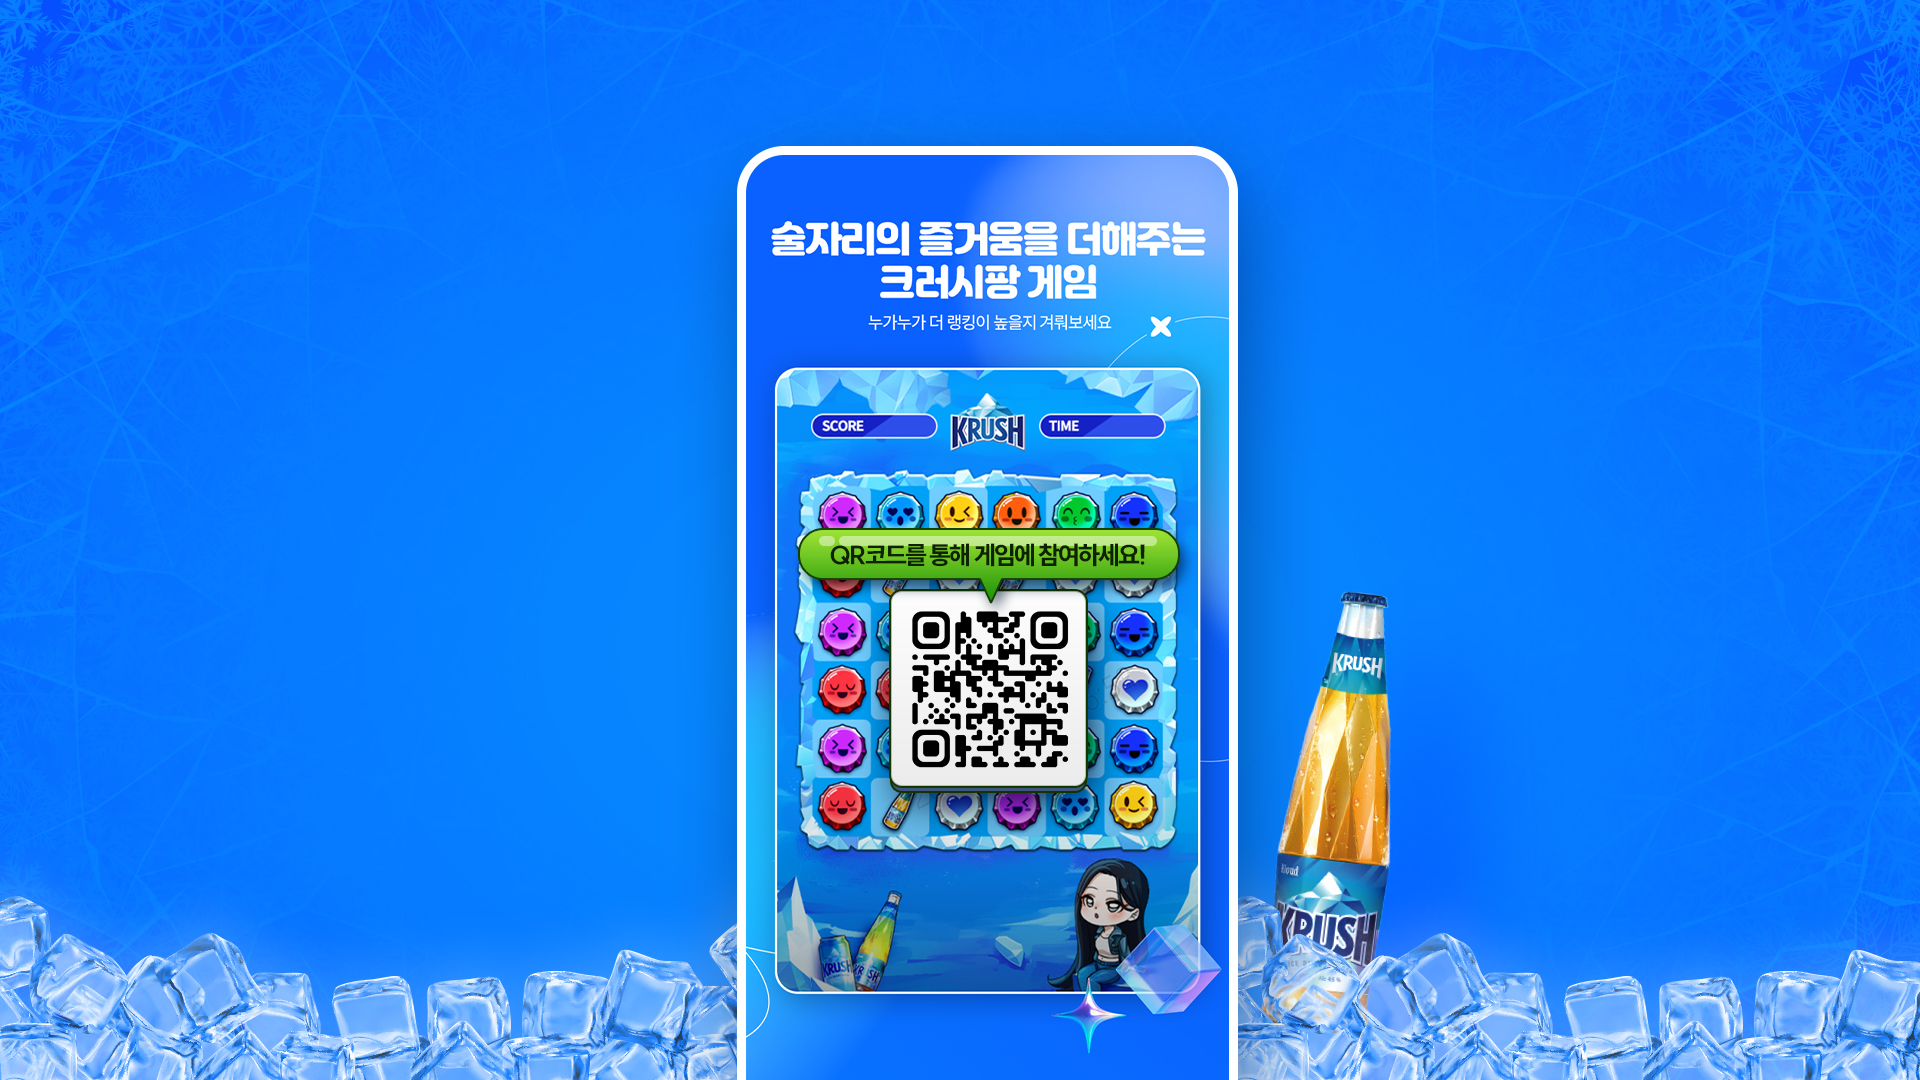
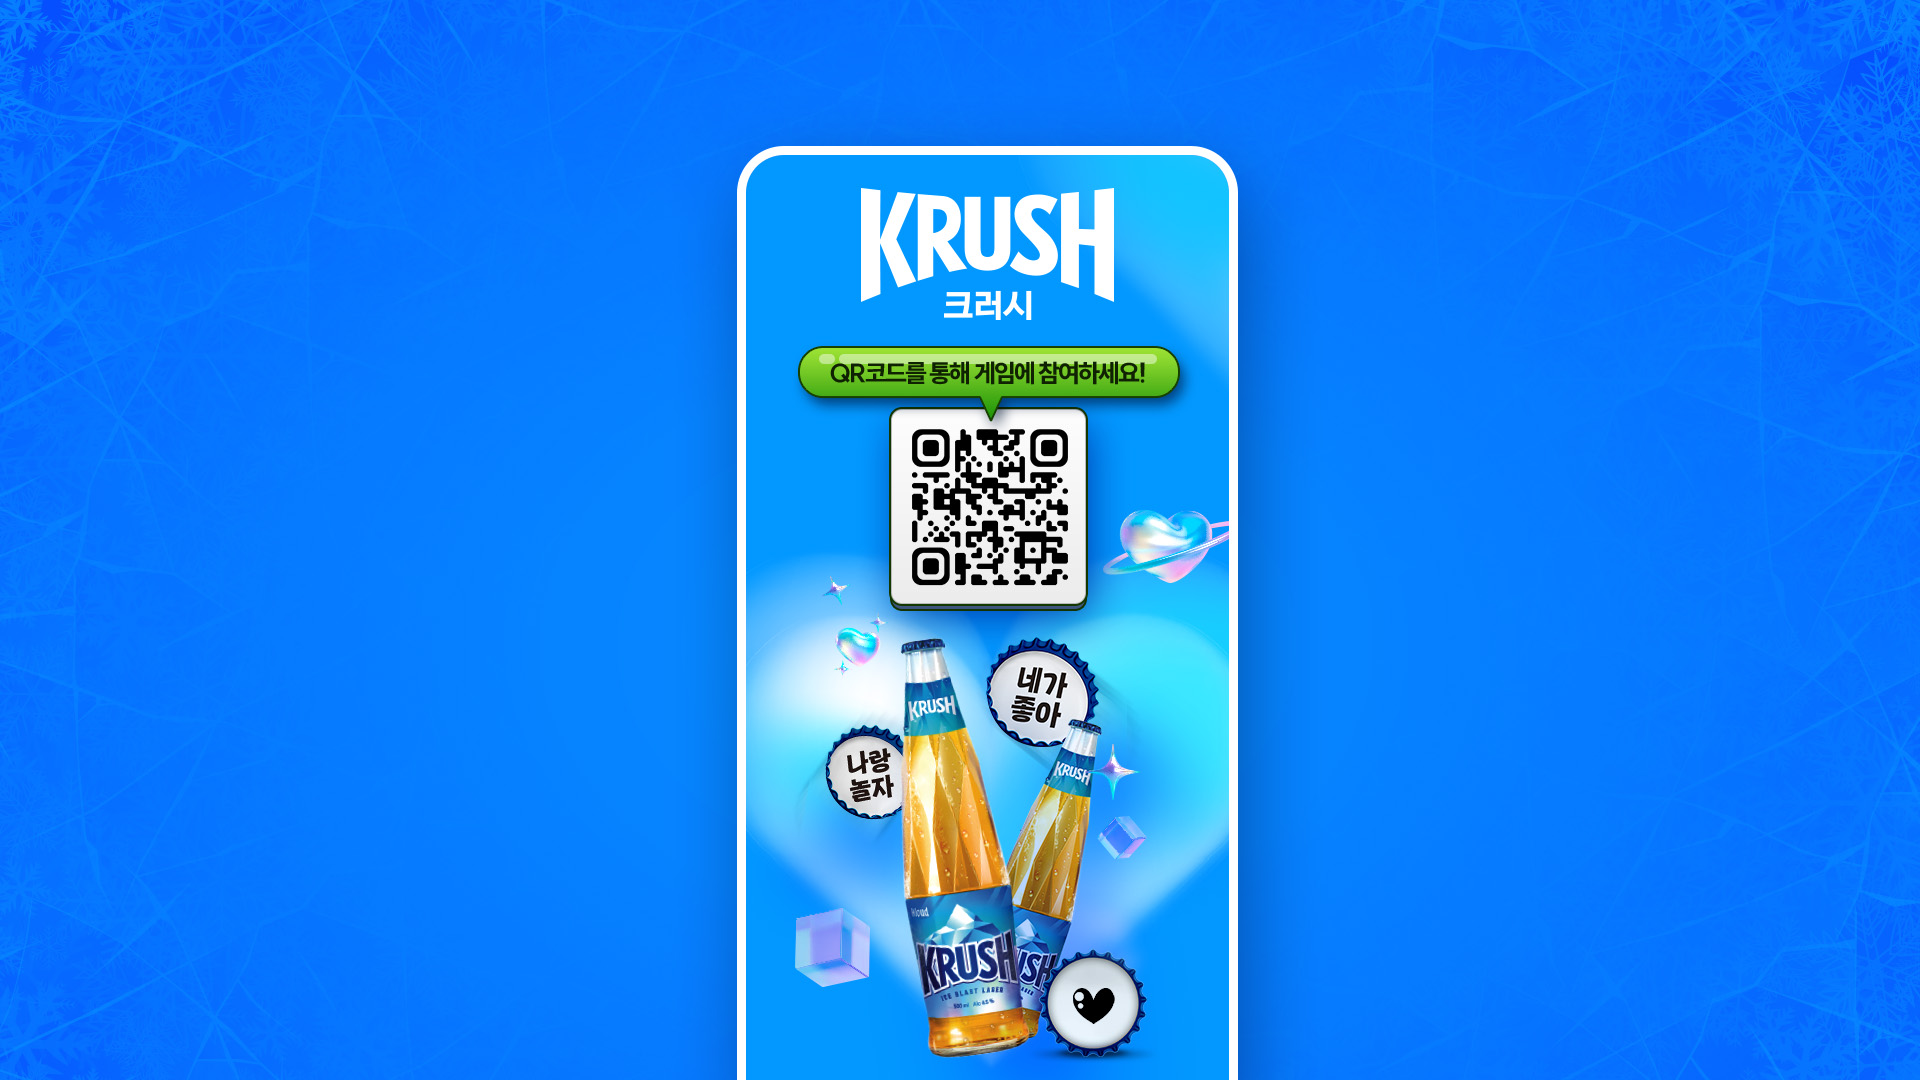
fix: 게임 링크 연결, 개인정보처리방침 삭제, PC 화면 이미지 변경

Changed region(s): [[0.0, 0.1222, 1.0, 1.0]]

diff --git a/css/landing.css b/css/landing.css
@@ -31,14 +31,14 @@ footer ul.text li:not(:first-of-type,:last-of-type)::after {content: ''; positio
 
 /* button */
 .btn {position: relative; display: inline-block; border-radius: 135px; box-shadow: 25px 25px 73px rgba(0, 32, 81, 0.8); z-index: 2;}
-.btn button {display: flex; align-items: center; justify-content: center; gap: 10px; height: 135px; border: 4px solid #003f8e; border-radius: 135px; font-size: 32px; color: #241916; font-weight: 900; letter-spacing: -0.25rem;}
+.btn button, .btn a {display: flex; align-items: center; justify-content: center; gap: 10px; height: 135px; border: 4px solid #003f8e; border-radius: 135px; font-size: 32px; color: #241916; font-weight: 900; letter-spacing: -0.25rem;}
 .btn::before {content: ''; position: absolute; width: 100%; height: 100%; border: 4px solid #003f8e; border-radius: 135px; background: linear-gradient(0deg, #195fd4, #ffffff); margin-top: 10px; z-index: -1;}
 .btn_type01 button {background: linear-gradient(0deg, #fdc327, #fefa05);}
 .btn_type01 button i {display: block; width: 40px; height: 40px; background: url('../img/icon_share.png') no-repeat center / contain;}
 .btn_type02 button {background: linear-gradient(0deg, #91d9ff, #ffffff);}
 .btn_type02 button i {display: block; width: 40px; height: 40px; background: url('../img/icon_reset.png') no-repeat center / contain;}
-.btn_type03 button {width: 100%; border-color: #5c0905; background: linear-gradient(0deg, #d33901, #f86c04); font-size: 42px; color: #ffffff; letter-spacing: 0;}
-.btn_type03 button i {display: block; width: 61px; height: 45px; background: url('../img/icon_game.png') no-repeat center / contain;}
+.btn_type03 a {display: flex; align-items: center; justify-content: center; width: 100%; border-color: #5c0905; background: linear-gradient(0deg, #d33901, #f86c04); font-size: 42px; color: #ffffff; letter-spacing: 0;}
+.btn_type03 a i {display: block; width: 61px; height: 45px; background: url('../img/icon_game.png') no-repeat center / contain;}
 .btn_type03::before {border-color: #5c0905; background: linear-gradient(0deg, #8e300b, #ffffff);}
 
 /* step */
@@ -205,12 +205,12 @@ footer ul.text li:not(:first-of-type,:last-of-type)::after {content: ''; positio
   .tit_area h2 {font-size: 30px; line-height: 1.4;}
   .tit_area h2.ls {letter-spacing: 0;}
   .tit_area p {font-size: 16px;}
-  .btn button {gap: 5px; height: 80px; border-width: 2px; font-size: 16px; letter-spacing: -0.15rem;}
+  .btn button, .btn a {gap: 5px; height: 80px; border-width: 2px; font-size: 16px; letter-spacing: -0.15rem;}
   .btn::before {margin-top: 5px; border-width: 2px;}
   .btn_type01 button i {width: 20px; height: 20px;}
   .btn_type02 button i {width: 20px; height: 20px;}
-  .btn_type03 button {font-size: 20px; letter-spacing: 0;}
-  .btn_type03 button i {width: 35px; height: 26px;}
+  .btn_type03 a {font-size: 20px; letter-spacing: 0;}
+  .btn_type03 a i {width: 35px; height: 26px;}
   .step_area {margin: -10px 0;}
   .step_area ul li p {width: 150px; height: 192px; padding-top: 5px; font-size: 14px;}
   .step_area ul li p b {font-size: 24px;}

diff --git a/index.html b/index.html
@@ -557,9 +557,9 @@
                   <img src="./img/sec03_img01.jpg" alt="크러시팡 이미지" />
                   <div class="btn_wrap">
                     <div class="btn btn_type03">
-                      <button type="button">
+                      <a href="https://krushpang.page.link/KRUSHWeb" target="_blank">
                         <i></i><span>게임시작</span>
-                      </button>
+                      </a>
                     </div>
                   </div>
                 </div>
@@ -879,14 +879,14 @@
                 이용약관
               </a>
             </li>
-            <li>
+            <!-- <li>
               <a
                 href="https://company.lottechilsung.co.kr/kor/util/privacy/view.do"
                 target="_blank"
               >
                 <b>개인정보 처리방침</b>
               </a>
-            </li>
+            </li> -->
             <li>
               <a href="https://mall.lottechilsung.co.kr" target="_blank">
                 롯데칠성몰
